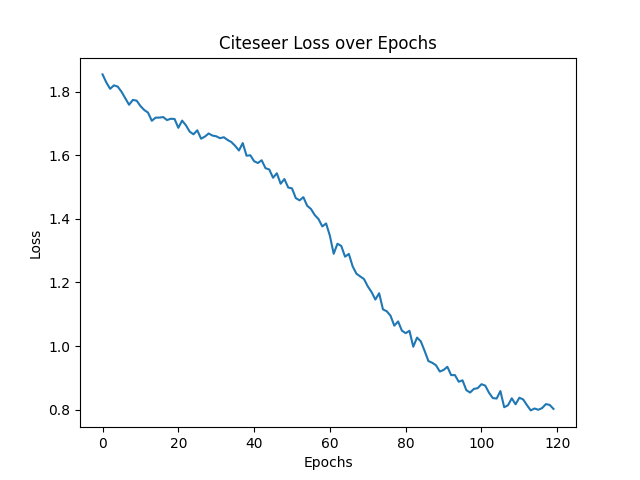
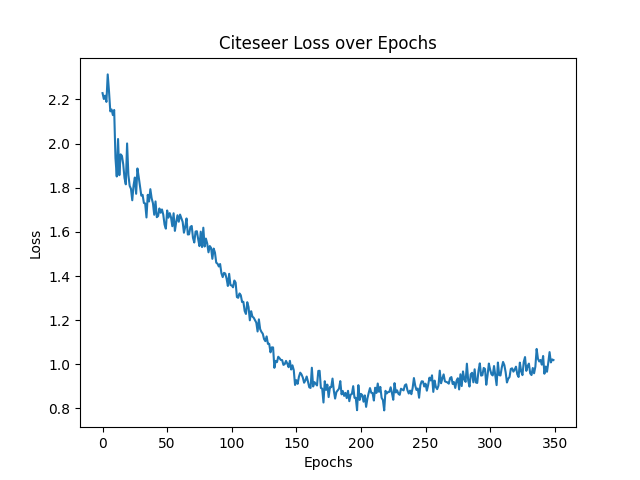
0.68 :d

diff --git a/ECS189G_Winter_2022_Source_Code_Template/code/stage_5_code/Method_Citeseer.py b/ECS189G_Winter_2022_Source_Code_Template/code/stage_5_code/Method_Citeseer.py
@@ -22,12 +22,12 @@ class Method_Citeseer(method, nn.Module):
     device = "cuda" if torch.cuda.is_available() else "cpu"
     training = False
 
-    max_epoch = 120
-    learning_rate = 1e-3
+    max_epoch = 350
+    learning_rate = 5e-4
 
-    hidden_size = 130
-    dropout = 0.7
-    weight_decay = 0.1
+    hidden_size = 500
+    dropout = 0.95
+    weight_decay = 0.187
 
     loss_history = []
 
